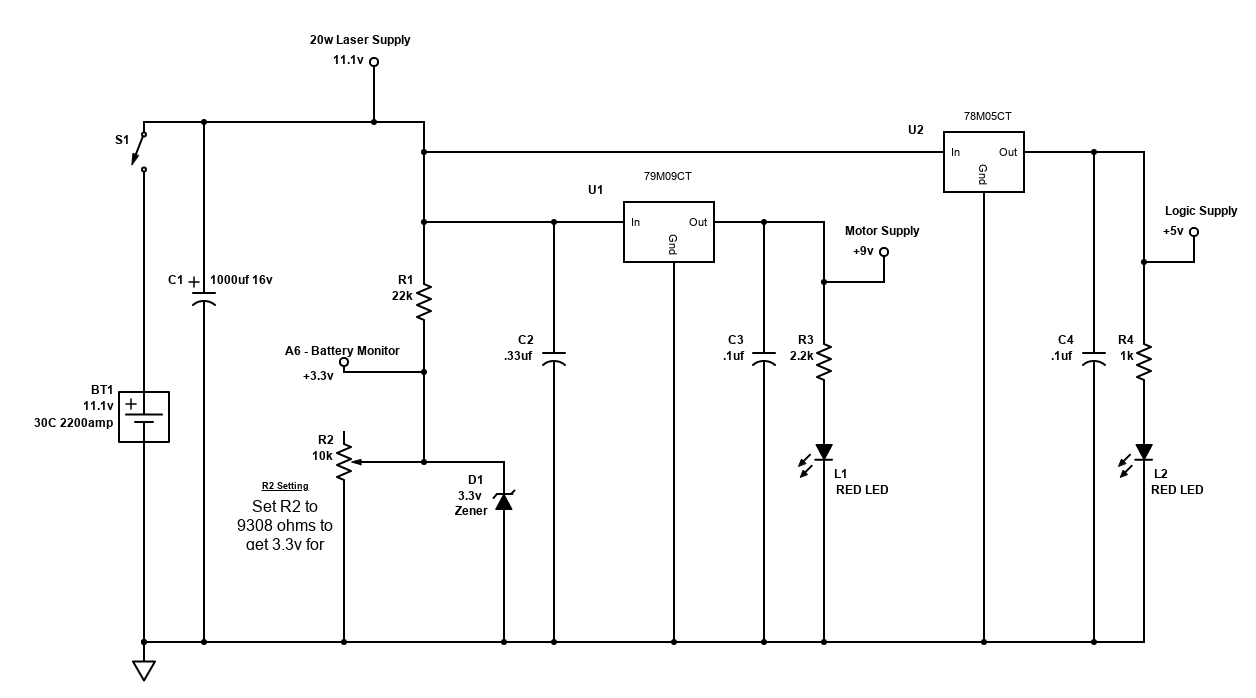
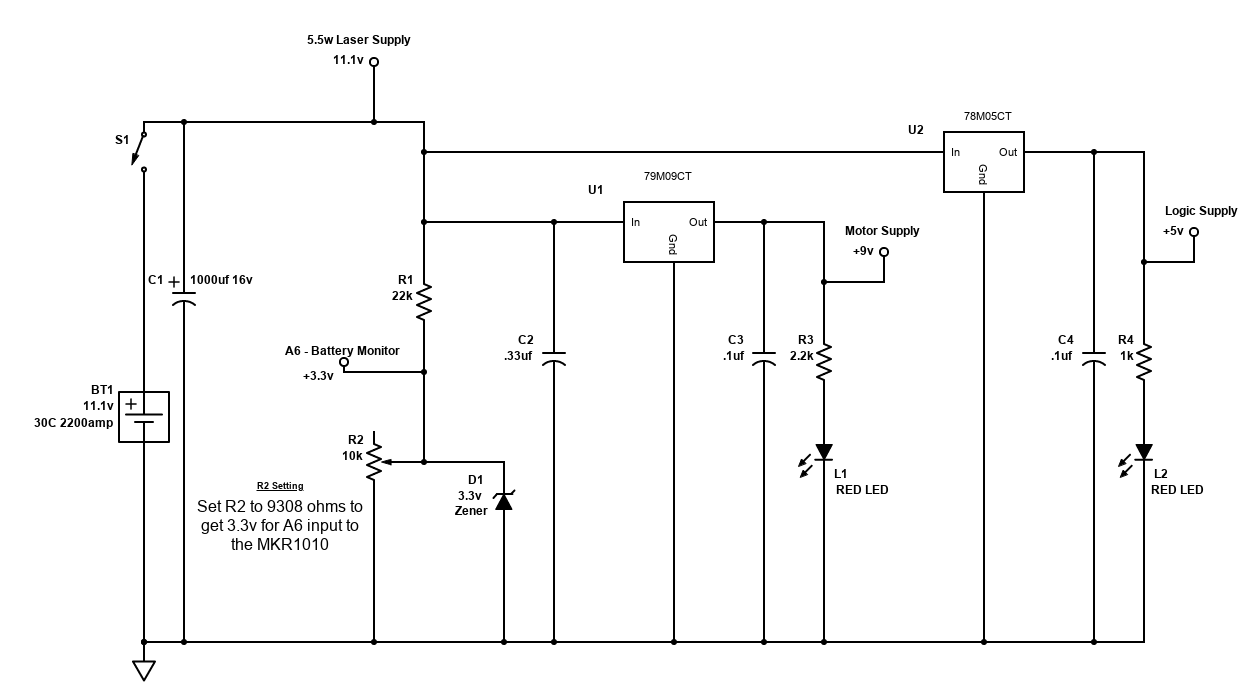
Worked on the documentation, added updated drawlings.

Changed region(s): [[0.1553, 0.692, 0.3105, 0.8123], [0.2484, 0.6017, 0.3105, 0.692], [0.1242, 0.3911, 0.2174, 0.4513]]

diff --git a/README.md b/README.md
@@ -1,12 +1,12 @@
 # Arduino-T001-LaserTankPowerSupply
 
 ### Laser Tank Power Supply Tutorial
-This is tutorial 1 for my 20W Laser Tank.  It's primary focus is to monitor the 11.1v LiPo Battery.  Normal use of the battery causes it to degrade over time, to prevent further degradation we don't want the battery to discharge to low.  So I set the Low Voltage Cutoff (LVC) to be 10V. 10V is well above the danger zone of 3.0v per cell and allows for some variance of the three cells that make up the battery.  There are several guides to understanding Lipo batteries [Lipo Guide](http://learningrc.com/lipo-battery/) so I won't go into a lot of detail.
+This is tutorial 1 for my 5.5w Laser Tank (LT).  It's primary focus is to monitor the 11.1v LiPo Battery.  Normal use of the battery causes it to degrade over time, to prevent further degradation we don't want the battery to discharge to low.  So I set the Low Voltage Cutoff (LVC) to be 10V. 10V is well above the danger zone of 3.0v per cell and allows for some variance of the three cells that make up the battery.  There are several guides to understanding Lipo batteries [Lipo Guide](http://learningrc.com/lipo-battery/) so I won't go into a lot of detail regarding their usage.
 
-The tutorial also covers setting up a software interrupt, Interrupt Service Routine (ISR) and background processing as part of the battery monitoring.  These will also help manage and control other parts of the Laser Tank. 
+The tutorial shows code using a Software Interrupt, an Interrupt Service Routine (ISR) and Background Processing as part of the battery monitoring.  I will cover these in future tutorials, so I will not explain their operation at time (these will help manage and control other parts to the LT). I will be adding multiple sensors and devices to the LT, so I wanted to ensure various processes are only using CPU time only as needed.
 
 > #### Power Supply Requirements 
-> - +10vdc to +11vdc for the 20W Laser
+> - +10vdc to +12vdc for the 5.5w Laser
 > - +9vdc for the left and right Drive Motors
 > - +5vdc for the Arduino(s) and other Control and logic Boards and components
 > - 0 to +3.3vdc for the input to the MKR1010 A6 pin, so we can calculate current and average battery voltage
@@ -15,20 +15,34 @@ The tutorial also covers setting up a software interrupt, Interrupt Service Rout
 
 ![Power Supply Schematic](/Images/Power_Supply_Schematic.png)
 
-The Laser is feed directly from the battery, the Drive Motors and Control Boards get their supply voltage from two different voltage regulators.  Their respective circuits are pretty straight forward, therefore I'll move on to the voltage monitor section of the schematic.
+The 5.5w Laser is feed directly from the battery, the Drive Motors and Control Boards get their supply voltage from two different voltage regulators.  Their respective circuits are pretty straight forward, therefore I'll move on to the voltage monitor section of the schematic.
 
-The voltage monitor section has both hardware and software related areas.
+The voltage monitor section has hardware and software related components.
 
-- Hardware:
+### Voltage Monitor Hardware
 
 ![Voltage Mointor](/Images/Voltage_Monitor.png)
 
-- Software
+The hardware component is composed of a voltage divider circuit using R1 and R2. R2 is a 10K potentiometer that I adjust to get a starting voltage of +3.3v (maximum input for and MKR1010 A6 pin). Due to resistor tolerances you may have to adjust yours ([Making Adjustments](https://www.youtube.com/channel/UClwcP7ByE6Ia9DmKfP0C-UQ)).  D1 is a 3.3v zener diode is used to ensure we do not overload the MKR1010's input. Why do I need D1? The Lipo battery says it is 11.1v however during recharging the actual charge voltage can be above 11.1 (could be as high as 12.6v for my particular battery). If you are willing to monitor the recharging process and stop it at 11.1v or adjust R2 every time to ensure you do not exceed +3.3v D1 is not needed, however that is not practical and poses an unnecessary risk to the MKR1010.
+
+### Voltage Monitor Software
+
+The voltage monitor software allows the LT to make a reading of the battery voltage ever 3 seconds (driven by the ISR and processed in the background).  An average of the last 10 readings is created and is use as the value to make the LVC decision.  If the LVC is reached a warning message is printer (in this tutorial, the actual LT sends the message to the user via websockets, more on that in a future tutorial) and LowVoltage Led is lit.
+
+- Declare the variables we need, these include:
+  - The Voltage Monitor pin - output voltage from voltage divider
+  - The Low Voltage LED output pin
+  - Vars for reading, storing and calculating the battery voltage
+  - ISR var used to tell the background it's time to do a status check 
 ```sh
+#ifndef VoltageMonitorPin
+    // A6 / D21
+    #define VoltageMonitorPin  A6
+#endif
 
 #ifndef LowVoltagePin
-    // A2/D17 - Red LED
-    #define LowVoltagePin  17
+    // D8 - Red LED
+    #define LowVoltagePin  8
 #endif
 
 // Battery
@@ -40,15 +54,19 @@ float BatteryAverageFinal = 0;
 
 // ISR vars
 volatile int ISR_BatteryVoltage = 0;
-
+```
+- Function to read and process the battery voltage
+  - Read the Battery Voltage - the input to the VoltageMonitorPin should be in the range of: 0 - +3.3v [ our working range should be : +x.xv (+10v or LVC) and +3.3v (+11.1v or MAX) ].  The analogRead is using the default resolution of 10 bits, therefore the raw_read value should be between 0 and 1023.  Since we know the target supply voltage is 11.1, multiple the raw_read value by (float)11.1 and then divide by 1023 to get BatteryVoltage (the current reading).  Next we add the BatteryVoltage to the BatteryAverageBuild to keep a running total for this 30 second average.
+  - Make the Average - once we get to 10 samples and then divide the BatteryAverageBuild by 10 to get the BatteryAverageFinal for this 30-second period.  The sample is reported, and then checked to see if we are +10v or below and if so report that too.  Finally, if below +10v lite the Low Voltage LED.
+```sh
 void sendBatteryStatus()
 { 
     // read the Battery Voltage
-    raw_read = analogRead(A6);
+    raw_read = analogRead(VoltageMonitorPin);
     BatteryVoltage = (((float)raw_read) * 11.1 / 1023);
     BatteryAverageBuild += BatteryVoltage;
 
-    // make the average
+    // make the Average
     // average is the last 10 samples
     BatteryAverageCount++;
     if(BatteryAverageCount == 10) {
@@ -69,8 +87,11 @@ void sendBatteryStatus()
         }
     }
 }
-
-// Interrupt Service Routine (ISR)
+```
+- ISR, tells the background to take a sample of the battery voltage every 3 seconds
+  - The software interrupt is configured to call the ISR once every 10 micro-seconds (10 * 300000 = 3,000,000 or 3 seconds).  Once we reach 3 seconds the ISR is done until the background takes the sample and resets the ISR counter, so it can start over.  Why so fast, I'll explain in a future tutorial for the 5.5w Laser.  I like to share really cool/useful websites so here is one that does conversions for you [Unit Juggler](https://www.unitjuggler.com/convert-frequency-from-%C2%B5s(p)-to-s(p).html?val=3000000).
+```sh
+// interrupt service routine
 void TC4_Handler()
 {
   if (TC4->COUNT16.INTFLAG.bit.OVF && TC4->COUNT16.INTENSET.bit.OVF)
@@ -82,14 +103,19 @@ void TC4_Handler()
       }
   }
 }
-
+```
+- setup, required Arduino code block
+  - Setup the Low Voltage Pin - configure the Low Voltage warning LED
+  - Get the Initial Battery Status - take a sample of the start up battery voltage, if it is too low lite the warning LED and wait.  If it is good ensure the warning LED is off and set the initial BatteryAverageFinal to be = to thh current BatteryVoltage, so we have a value until a full 30-second sample is available
+```sh
 void setup()
 {
-    // setup the low voltage pin
+    // Setup the Low Voltage Pin
     pinMode(LowVoltagePin, OUTPUT);
     digitalWrite(LowVoltagePin, LOW);
 
-    // get the initial battery status so we can preset the battery average until we have one (every 30 seconds)
+    // Get the Initial Battery Status so we can preset the battery average until we have one (every 30 seconds)
+    // also check and make sure we are good to go else set the Low Voltage LED and wait
     while(BatteryAverageFinal < 10.1) {
       sendBatteryStatus();
 
@@ -103,17 +129,12 @@ void setup()
       }
     }  
 }
-
+```
+- loop, required Arduino code block
+  - Setup the Low Voltage Pin
+```sh
 void loop()
 {
-  // Background Process 1
-  // see if it's time to send the battery status
-  // we get battery status every 3 seconds
-  // the sendBatteryStatus() function will send a status update every 10 times we call it so we send the status every 30 seconds (3sec x 10 = 30 seconds)
-  if(ISR_BatteryVoltage == 300000) {
-    ISR_BatteryVoltage = 0;
-    sendBatteryStatus();
-  }
+
 }
 ```
-
